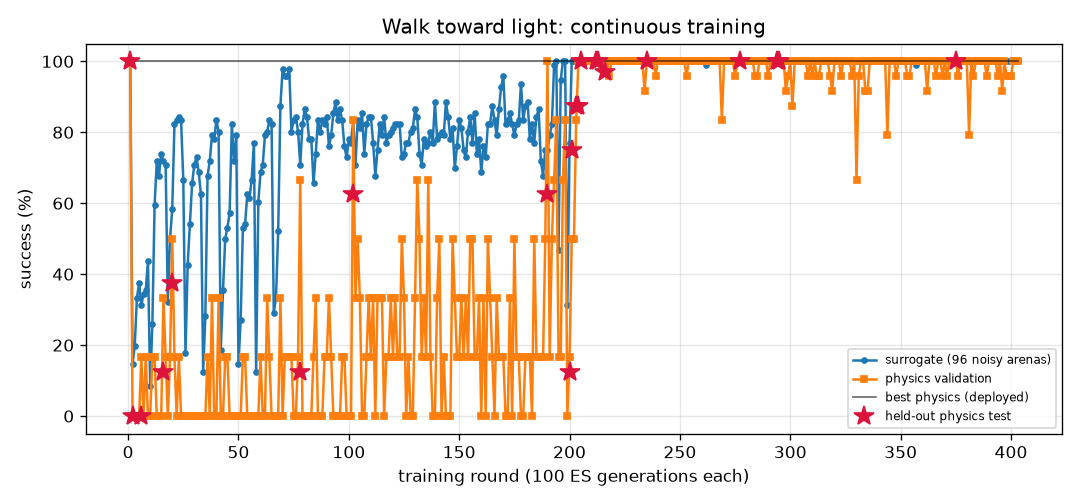
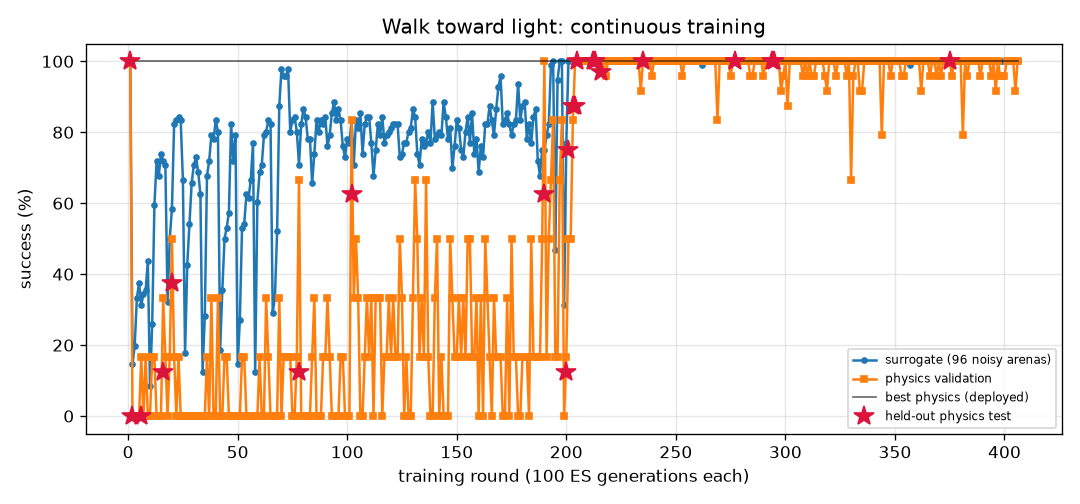
FlyLab: continuous training progress
- walk_forward: optimal, physics val 100% of 24, round 256
- turn: optimal, physics val 100% of 24, round 793
- goto: optimal, physics val 100% of 24, round 208
- odor_seek: optimal, physics val 100% of 24, round 178
- odor_avoid: optimal, physics val 100% of 24, round 725
- light_seek: optimal, physics val 100% of 24, round 406
- light_avoid: optimal, physics val 100% of 24, round 460

diff --git a/projects/09_flylab/training/walk_forward/REPORT.md b/projects/09_flylab/training/walk_forward/REPORT.md
@@ -1,14 +1,14 @@
 # Walk forward (`walk_forward`) — training report
 
-*Auto-generated by `train_brains.py`, last updated 2026-11-01T16:49:06.*
+*Auto-generated by `train_brains.py`, last updated 2026-11-01T20:21:56.*
 
 ![curve](curve.png)
 
 | | |
 |---|---|
-| rounds | 253 |
-| ES generations | 25300 |
-| physics runs | 6086 |
+| rounds | 256 |
+| ES generations | 25600 |
+| physics runs | 6158 |
 | status | **optimal** |
 | best brain | round 116: physics validation **100%** on 24 arenas, surrogate 100% |
 | held-out physics test | **100%** on 32 unseen arenas (95% CI 89%-100%) (errors: [0.13, 0.16, 0.19, 0.16, 0.15, 0.2, 0.17, 0.18, 0.17, 0.19, 0.2, 0.14, 0.17, 0.19, 0.2, 0.2, 0.13, 0.19, 0.16, 0.2, 0.2, 0.16, 0.17, 0.2, 0.13, 0.15, 0.18, 0.14, 0.16, 0.15, 0.19, 0.12]) |
@@ -17,9 +17,6 @@ Physics error per arena: mm from target at the end (< 1.5 and standing still = s
 
 | round | level | gens | sigma | surrogate | physics val | val errors | test | note |
 |---:|---:|---:|---:|---:|---:|---|---:|---|
-| 214 | 3 | 21400 | 0.024 | 100% | 92% | [0.21, 0.23, 0.15, 0.21, 0.23, 0.07, 0.22, 0.17, 0.22, 0.21, 0.53, 0.19, 0.17, 0.14, 0.23, 0.2, 0.21, 0.22, 0.17, 0.22, 0.19, 0.21, 0.19, 0.17] |  |  |
-| 215 | 3 | 21500 | 0.024 | 100% | 96% | [0.16, 0.18, 0.1, 0.15, 0.19, 0.58, 0.18, 0.05, 0.18, 0.18, 0.05, 0.17, 0.08, 0.07, 0.17, 0.17, 0.16, 0.18, 0.08, 0.17, 0.07, 0.18, 0.15, 0.1] |  |  |
-| 216 | 3 | 21600 | 0.024 | 100% | 100% | [0.12, 0.16, 0.1, 0.12, 0.15, 0.08, 0.14, 0.06, 0.13, 0.13, 0.09, 0.13, 0.09, 0.08, 0.08, 0.12, 0.13, 0.15, 0.06, 0.11, 0.05, 0.17, 0.17, 0.11] |  | restart from best |
 | 217 | 3 | 21700 | 0.024 | 100% | 100% | [0.21, 0.28, 0.22, 0.21, 0.28, 0.23, 0.28, 0.22, 0.28, 0.32, 0.24, 0.33, 0.22, 0.23, 0.22, 0.33, 0.21, 0.25, 0.21, 0.22, 0.21, 0.33, 0.33, 0.22] |  |  |
 | 218 | 3 | 21800 | 0.024 | 100% | 100% | [0.24, 0.22, 0.18, 0.24, 0.22, 0.19, 0.24, 0.19, 0.23, 0.21, 0.21, 0.2, 0.19, 0.16, 0.28, 0.26, 0.21, 0.22, 0.22, 0.28, 0.2, 0.21, 0.24, 0.2] |  |  |
 | 219 | 3 | 21900 | 0.024 | 100% | 100% | [0.23, 0.27, 0.19, 0.23, 0.27, 0.18, 0.27, 0.2, 0.27, 0.27, 0.17, 0.25, 0.19, 0.18, 0.25, 0.27, 0.23, 0.27, 0.2, 0.25, 0.21, 0.27, 0.25, 0.19] |  |  |
@@ -57,3 +54,6 @@ Physics error per arena: mm from target at the end (< 1.5 and standing still = s
 | 251 | 3 | 25100 | 0.024 | 100% | 96% | [0.1, 0.15, 0.05, 0.09, 0.13, 0.12, 0.14, 0.17, 0.16, 0.15, 0.09, 0.22, 0.1, 0.07, 0.11, 0.13, 0.03, 0.15, 0.1, 0.11, 0.08, 0.2, 0.21, 0.02] |  |  |
 | 252 | 3 | 25200 | 0.024 | 99% | 88% | [0.04, 0.2, 0.46, 0.17, 0.2, 0.4, 0.21, 0.15, 0.21, 0.23, 0.75, 0.24, 0.44, 0.05, 0.05, 0.24, 0.03, 0.18, 0.07, 0.17, 0.07, 0.24, 0.24, 0.31] |  | restart from best |
 | 253 | 3 | 25300 | 0.024 | 100% | 100% | [0.24, 0.38, 0.26, 0.24, 0.38, 0.27, 0.39, 0.24, 0.38, 0.4, 0.28, 0.39, 0.24, 0.27, 0.26, 0.39, 0.22, 0.34, 0.23, 0.29, 0.22, 0.4, 0.37, 0.24] |  |  |
+| 254 | 3 | 25400 | 0.024 | 100% | 83% | [0.14, 0.08, 0.09, 0.06, 0.21, 0.08, 0.03, 0.08, 0.08, 0.07, 0.11, 0.08, 0.07, 1.06, 0.16, 0.11, 1.07, 0.06, 0.07, 0.07, 0.08, 0.05, 0.09, 0.06] |  |  |
+| 255 | 3 | 25500 | 0.024 | 100% | 75% | [0.05, 0.08, 0.02, 0.51, 0.07, 0.13, 0.06, 0.07, 0.08, 0.07, 0.1, 0.06, 0.07, 0.19, 0.05, 0.02, 0.52, 0.0, 0.07, 0.06, 0.69, 0.1, 0.05, 0.08] |  |  |
+| 256 | 3 | 25600 | 0.024 | 100% | 100% | [0.23, 0.32, 0.24, 0.23, 0.31, 0.24, 0.32, 0.25, 0.32, 0.35, 0.24, 0.35, 0.25, 0.25, 0.24, 0.34, 0.23, 0.28, 0.24, 0.24, 0.24, 0.35, 0.34, 0.25] |  | restart from best |

diff --git a/projects/09_flylab/training/light_seek/REPORT.md b/projects/09_flylab/training/light_seek/REPORT.md
@@ -1,14 +1,14 @@
 # Walk toward light (`light_seek`) — training report
 
-*Auto-generated by `train_brains.py`, last updated 2026-11-01T16:29:43.*
+*Auto-generated by `train_brains.py`, last updated 2026-11-01T20:10:11.*
 
 ![curve](curve.png)
 
 | | |
 |---|---|
-| rounds | 403 |
-| ES generations | 40300 |
-| physics runs | 6552 |
+| rounds | 406 |
+| ES generations | 40600 |
+| physics runs | 6624 |
 | status | **optimal** |
 | best brain | round 375: physics validation **100%** on 24 arenas, surrogate 100% |
 | held-out physics test | **100%** on 32 unseen arenas (95% CI 89%-100%) (errors: [0.57, 0.54, 0.53, 0.57, 0.55, 0.56, 0.59, 0.56, 0.53, 0.56, 0.71, 0.56, 0.55, 0.54, 0.53, 0.54, 0.54, 0.55, 0.52, 0.65, 0.64, 0.7, 0.58, 0.57, 0.6, 0.62, 0.55, 0.88, 0.54, 0.52, 0.62, 0.57]) |
@@ -17,9 +17,6 @@ Physics error per arena: mm from target at the end (< 1.5 and standing still = s
 
 | round | level | gens | sigma | surrogate | physics val | val errors | test | note |
 |---:|---:|---:|---:|---:|---:|---|---:|---|
-| 364 | 3 | 36400 | 0.024 | 100% | 100% | [0.57, 0.53, 0.5, 0.55, 0.56, 0.74, 0.55, 0.86, 0.55, 0.51, 0.54, 0.5, 0.6, 0.59, 0.57, 0.7, 0.58, 0.5, 0.56, 0.53, 0.61, 0.5, 0.56, 0.67] |  |  |
-| 365 | 3 | 36500 | 0.024 | 100% | 100% | [0.63, 0.51, 0.59, 0.51, 0.48, 0.5, 0.46, 0.58, 0.7, 0.47, 0.62, 0.63, 0.54, 0.95, 0.7, 0.62, 0.49, 1.23, 0.47, 0.47, 0.58, 1.07, 0.47, 0.48] |  |  |
-| 366 | 3 | 36600 | 0.024 | 100% | 96% | [0.53, 0.57, 0.54, 0.58, 0.63, 0.54, 0.73, 0.52, 0.64, 0.64, 0.65, 0.56, 0.54, 0.57, 0.81, 0.55, 0.59, 0.58, 0.57, 0.65, 0.53, 1.83, 0.53, 0.54] |  |  |
 | 367 | 3 | 36700 | 0.024 | 100% | 100% | [0.51, 0.56, 0.5, 0.49, 0.72, 0.92, 0.57, 0.63, 0.51, 0.47, 0.48, 0.47, 0.54, 0.52, 0.5, 0.57, 0.64, 0.54, 0.55, 0.53, 0.5, 0.49, 0.51, 0.6] |  | restart from best |
 | 368 | 3 | 36800 | 0.024 | 100% | 100% | [1.1, 0.58, 0.55, 0.66, 0.54, 0.55, 0.65, 0.74, 0.57, 0.61, 0.58, 0.75, 0.59, 0.69, 0.61, 0.6, 0.56, 0.59, 0.57, 0.61, 0.57, 0.59, 1.18, 0.71] |  |  |
 | 369 | 3 | 36900 | 0.024 | 100% | 96% | [0.94, 0.46, 0.46, 0.64, 0.55, 0.45, 0.56, 0.57, 0.5, 0.54, 1.64, 0.54, 0.49, 0.52, 1.39, 0.58, 0.92, 1.01, 0.52, 0.55, 1.09, 0.51, 0.96, 0.5] |  |  |
@@ -57,3 +54,6 @@ Physics error per arena: mm from target at the end (< 1.5 and standing still = s
 | 401 | 3 | 40100 | 0.024 | 100% | 100% | [0.73, 0.63, 0.65, 0.64, 0.74, 0.74, 0.62, 0.68, 0.66, 0.63, 0.67, 0.6, 0.73, 0.71, 0.82, 0.64, 0.67, 0.75, 0.64, 0.71, 0.7, 0.55, 0.69, 0.81] |  |  |
 | 402 | 3 | 40200 | 0.024 | 100% | 100% | [0.54, 0.56, 0.62, 0.57, 0.47, 0.58, 0.54, 0.5, 1.02, 0.55, 0.57, 0.47, 0.52, 0.53, 0.63, 0.5, 0.5, 0.49, 0.54, 0.71, 0.51, 0.51, 0.55, 0.47] |  |  |
 | 403 | 3 | 40300 | 0.024 | 100% | 100% | [0.51, 0.5, 0.5, 1.0, 0.55, 0.54, 0.46, 0.65, 1.01, 0.63, 0.58, 0.63, 0.52, 0.76, 0.6, 0.45, 0.49, 0.58, 0.62, 0.5, 1.08, 0.99, 0.51, 0.47] |  | restart from best |
+| 404 | 3 | 40400 | 0.024 | 100% | 100% | [0.75, 0.68, 0.69, 0.56, 0.67, 0.69, 0.63, 0.71, 0.62, 0.8, 0.53, 0.69, 0.57, 0.58, 0.58, 1.2, 0.67, 1.15, 0.69, 0.7, 0.73, 0.53, 0.58, 1.14] |  |  |
+| 405 | 3 | 40500 | 0.024 | 100% | 92% | [1.78, 0.52, 0.49, 0.59, 0.58, 0.48, 0.56, 0.58, 1.91, 0.52, 0.51, 0.54, 0.5, 0.51, 0.67, 0.49, 0.58, 0.54, 0.47, 1.4, 0.58, 0.53, 0.51, 0.51] |  |  |
+| 406 | 3 | 40600 | 0.024 | 100% | 100% | [0.62, 0.54, 0.55, 0.57, 0.64, 0.75, 0.63, 0.66, 0.82, 0.56, 0.56, 0.62, 0.58, 0.59, 0.56, 0.57, 0.54, 0.55, 0.6, 0.62, 0.61, 0.77, 0.57, 0.58] |  |  |

diff --git a/projects/09_flylab/training/light_avoid/REPORT.md b/projects/09_flylab/training/light_avoid/REPORT.md
@@ -1,14 +1,14 @@
 # Hide from light (`light_avoid`) — training report
 
-*Auto-generated by `train_brains.py`, last updated 2026-11-01T19:13:43.*
+*Auto-generated by `train_brains.py`, last updated 2026-11-01T19:40:22.*
 
 ![curve](curve.png)
 
 | | |
 |---|---|
-| rounds | 458 |
-| ES generations | 45800 |
-| physics runs | 11264 |
+| rounds | 460 |
+| ES generations | 46000 |
+| physics runs | 11312 |
 | status | **optimal** |
 | best brain | round 159: physics validation **100%** on 24 arenas, surrogate 100% |
 | held-out physics test | **100%** on 32 unseen arenas (95% CI 89%-100%) (errors: [14.4, 56.1, 58.0, 57.9, 57.5, 14.0, 14.4, 56.6, 56.8, 13.3, 14.1, 56.6, 57.6, 13.1, 57.3, 55.9, 57.2, 55.0, 55.2, 53.9, 55.2, 12.4, 53.8, 53.7, 14.1, 13.7, 55.0, 57.8, 56.2, 13.1, 52.8, 56.5]) |
@@ -17,8 +17,6 @@ Physics error per arena: mm gained away from source (> 6 without first approachi
 
 | round | level | gens | sigma | surrogate | physics val | val errors | test | note |
 |---:|---:|---:|---:|---:|---:|---|---:|---|
-| 419 | 3 | 41900 | 0.024 | 100% | 100% | [55.4, 57.8, 57.7, 55.5, 56.3, 55.3, 57.0, 14.5, 51.5, 13.3, 55.3, 56.0, 14.4, 55.2, 57.8, 54.9, 14.2, 57.0, 58.2, 14.4, 53.0, 54.7, 57.0, 55.4] |  | restart from best |
-| 420 | 3 | 42000 | 0.024 | 100% | 100% | [50.0, 54.3, 54.0, 51.8, 54.5, 50.2, 52.4, 14.5, 40.2, 13.4, 53.0, 54.3, 14.4, 53.7, 54.2, 53.1, 14.2, 54.8, 54.6, 14.4, 51.3, 53.5, 52.2, 54.0] |  |  |
 | 421 | 3 | 42100 | 0.024 | 100% | 100% | [55.6, 58.0, 57.8, 55.6, 57.2, 54.6, 56.5, 14.5, 53.5, 13.3, 57.1, 57.1, 14.3, 55.0, 57.9, 54.7, 14.2, 57.8, 58.2, 14.4, 55.1, 57.0, 56.1, 56.4] |  |  |
 | 422 | 3 | 42200 | 0.024 | 100% | 100% | [56.9, 59.9, 59.7, 57.1, 59.4, 57.6, 58.4, 14.5, 54.4, 13.3, 58.7, 59.2, 14.4, 56.5, 59.8, 57.1, 14.2, 59.9, 60.2, 14.4, 56.3, 58.9, 57.9, 58.6] |  |  |
 | 423 | 3 | 42300 | 0.024 | 100% | 100% | [47.1, 46.4, 45.5, 48.0, 49.0, 46.2, 43.7, 14.5, 47.7, 13.2, 49.0, 49.5, 14.4, 49.3, 45.7, 48.1, 14.2, 49.2, 46.8, 14.4, 45.5, 49.5, 44.1, 49.6] |  | restart from best |
@@ -57,3 +55,5 @@ Physics error per arena: mm gained away from source (> 6 without first approachi
 | 456 | 3 | 45600 | 0.024 | 100% | 100% | [51.7, 55.4, 55.0, 52.8, 57.1, 53.2, 53.1, 14.5, 55.0, 13.3, 56.5, 57.0, 14.3, 55.8, 54.8, 51.8, 14.2, 57.1, 55.7, 14.4, 49.4, 56.7, 54.0, 56.6] |  |  |
 | 457 | 3 | 45700 | 0.024 | 100% | 100% | [51.8, 55.7, 55.5, 51.9, 55.7, 52.8, 54.1, 14.5, 46.5, 13.6, 55.5, 55.5, 14.4, 54.1, 55.5, 51.1, 14.2, 56.1, 56.0, 14.4, 53.3, 55.4, 53.8, 55.1] |  |  |
 | 458 | 3 | 45800 | 0.024 | 100% | 100% | [56.6, 60.6, 60.3, 57.5, 60.2, 57.3, 58.9, 14.5, 51.5, 13.5, 59.8, 60.1, 14.4, 57.9, 60.4, 55.9, 14.2, 60.7, 60.7, 14.4, 57.9, 59.8, 58.8, 59.5] |  |  |
+| 459 | 3 | 45900 | 0.024 | 100% | 100% | [43.6, 44.7, 44.8, 45.3, 47.6, 44.8, 43.0, 14.5, 40.4, 13.4, 46.0, 47.7, 14.4, 46.8, 45.3, 43.4, 14.2, 46.9, 46.2, 14.4, 46.6, 45.9, 41.5, 47.6] |  | restart from best |
+| 460 | 3 | 46000 | 0.024 | 100% | 100% | [42.3, 44.5, 44.0, 43.8, 47.3, 43.5, 42.2, 14.5, 45.1, 13.3, 47.1, 47.4, 14.4, 46.8, 44.3, 42.9, 14.2, 47.3, 44.9, 14.4, 42.8, 47.1, 42.6, 47.1] |  |  |

diff --git a/projects/09_flylab/training/TRAINING.md b/projects/09_flylab/training/TRAINING.md
@@ -1,15 +1,15 @@
 # FlyLab brains — continuous training log
 
-*Auto-generated by `train_brains.py`, last updated 2026-11-01T19:13:43.*
+*Auto-generated by `train_brains.py`, last updated 2026-11-01T20:21:56.*
 
 Every skill has its own brain and its own training process: surrogate ES rounds, physics validation in MuJoCo, keep-the-best selection, and a held-out physics test that is never used for selection. See each skill's report for its full round-by-round history. Mastery is progressive: passing a level (100% physics validation, >=95% surrogate) doubles the validation and test arena sets; a brain is **optimal** once it holds up at level 3 (>=95% of 24 validation arenas) AND scores >=90% on the 32 held-out test arenas. Test columns show 95% Wilson confidence intervals.
 
 | skill | rounds | ES generations | physics runs | surrogate | physics val | **physics test** | status |
 |---|---:|---:|---:|---:|---:|---:|---|
-| [Walk forward](walk_forward/REPORT.md) | 253 | 25300 | 6086 | 100% | 100% of 24 | 100% of 32 (CI 89-100%) | **optimal** |
+| [Walk forward](walk_forward/REPORT.md) | 256 | 25600 | 6158 | 100% | 100% of 24 | 100% of 32 (CI 89-100%) | **optimal** |
 | [Turn in place](turn/REPORT.md) | 793 | 79300 | 19278 | 100% | 100% of 24 | 97% of 32 (CI 84-99%) | **optimal** |
 | [Go to a location](goto/REPORT.md) | 208 | 20800 | 4942 | 100% | 100% of 24 | 100% of 32 (CI 89-100%) | **optimal** |
 | [Find food by smell](odor_seek/REPORT.md) | 178 | 17800 | 3702 | 100% | 100% of 24 | 100% of 32 (CI 89-100%) | **optimal** |
 | [Escape a bad smell](odor_avoid/REPORT.md) | 725 | 72500 | 14706 | 97% | 100% of 24 | 97% of 32 (CI 84-99%) | **optimal** |
-| [Walk toward light](light_seek/REPORT.md) | 403 | 40300 | 6552 | 100% | 100% of 24 | 100% of 32 (CI 89-100%) | **optimal** |
-| [Hide from light](light_avoid/REPORT.md) | 458 | 45800 | 11264 | 100% | 100% of 24 | 100% of 32 (CI 89-100%) | **optimal** |
+| [Walk toward light](light_seek/REPORT.md) | 406 | 40600 | 6624 | 100% | 100% of 24 | 100% of 32 (CI 89-100%) | **optimal** |
+| [Hide from light](light_avoid/REPORT.md) | 460 | 46000 | 11312 | 100% | 100% of 24 | 100% of 32 (CI 89-100%) | **optimal** |
